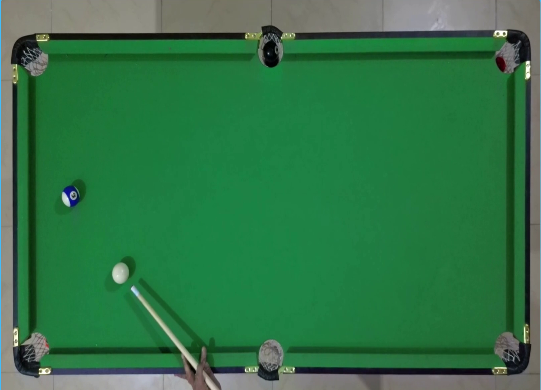
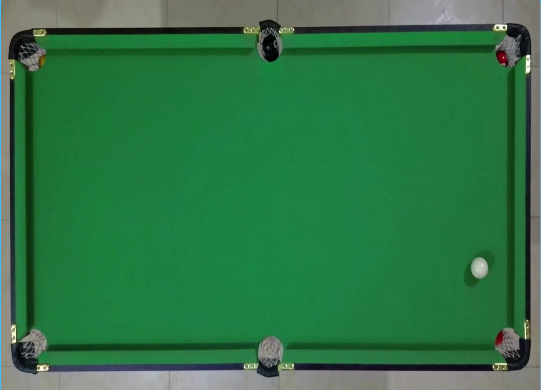
detect the balls

Changed region(s): [[0.0, 0.0308, 1.0, 1.0], [0.8577, 0.6462, 0.9168, 0.7385]]

diff --git a/main.py b/main.py
@@ -38,23 +38,39 @@ def getContours(img):
         #Pega a area do contorno: contourArea(contorno)
         area = cv2.contourArea(i)
         #Desenha os contornos: drawContours(Imagem, contorno, index do contorno, cor, espessura)
-        if area > 150 and area < 400:
-            cv2.drawContours(imgCropped, i, -1, (0, 0, 172), 2)
+        if area > 100 and area < 320:
+            cv2.drawContours(imgCropped, i, -1, (0, 0, 172), 1)
             peri = cv2.arcLength(i, True)
             approx = cv2.approxPolyDP(i, 0.02*peri, True)
             objCor = len(approx)
             x, y, w, h = cv2.boundingRect(approx)
-            #cv2.rectangle(imgCropped, (x, y), (x+w, y+h), (0, 0, 172), 2)
             #cv2.putText(imgCropped, str(area), (x+(w//2)-15, y+(h//2)-15), cv2.FONT_HERSHEY_COMPLEX, 0.5,  (0,0,0), 1)
             if objCor >7:
-                cv2.putText(imgCropped, "Bola",  
+                color = imgCropped[y+(h//2), x+(w//2)]
+                print(color)
+                if color[0] >= 20 and color[0] <= 205 and color[1] >=115 and color[1] <= 220 and color[2] >= 173 and color[2] <= 230 :
+                    cv2.putText(imgCropped, "Bola branca", 
+                            (x+(w//2)-15, y+(h//2)-15), cv2.FONT_HERSHEY_COMPLEX, 0.5,  (0,0,0), 1)
+                else:
+                    cv2.putText(imgCropped, "Bola colorida", 
+                            (x+(w//2)-15, y+(h//2)-15), cv2.FONT_HERSHEY_COMPLEX, 0.5,  (0,0,0), 1)
+            if objCor >2 and objCor<7:
+                cv2.putText(imgCropped, "Taco",  
                         (x+(w//2)-15, y+(h//2)-15), cv2.FONT_HERSHEY_COMPLEX, 0.5,  (0,0,0), 1)
+        elif area > 320 and area < 900:
+            cv2.drawContours(imgCropped, i, -1, (0, 0, 172), 1)
+            peri = cv2.arcLength(i, True)
+            approx = cv2.approxPolyDP(i, 0.02*peri, True)
+            objCor = len(approx)
+            x, y, w, h = cv2.boundingRect(approx)
+            if objCor >7:
+                cv2.putText(imgCropped, "Buraco",  
+                        (x+(w//2)-15, y+(h//2)-15), cv2.FONT_HERSHEY_COMPLEX, 0.5,  (255,255,255), 1)
 
 def imgProcessing(img):
-    imgHSV = cv2.cvtColor(img,cv2.COLOR_BGR2HSV)
-    lower = np.array([44, 145, 0])
-    upper = np.array([179, 255, 255])
-    mask = cv2.inRange(imgHSV,lower,upper)
+    lower = np.array([0, 0, 69])
+    upper = np.array([255, 255, 255])
+    mask = cv2.inRange(img,lower,upper)
     imgFiltered = cv2.bitwise_and(img,img,mask=mask)
 
     imgGray = cv2.cvtColor(imgFiltered, cv2.COLOR_BGR2GRAY)
